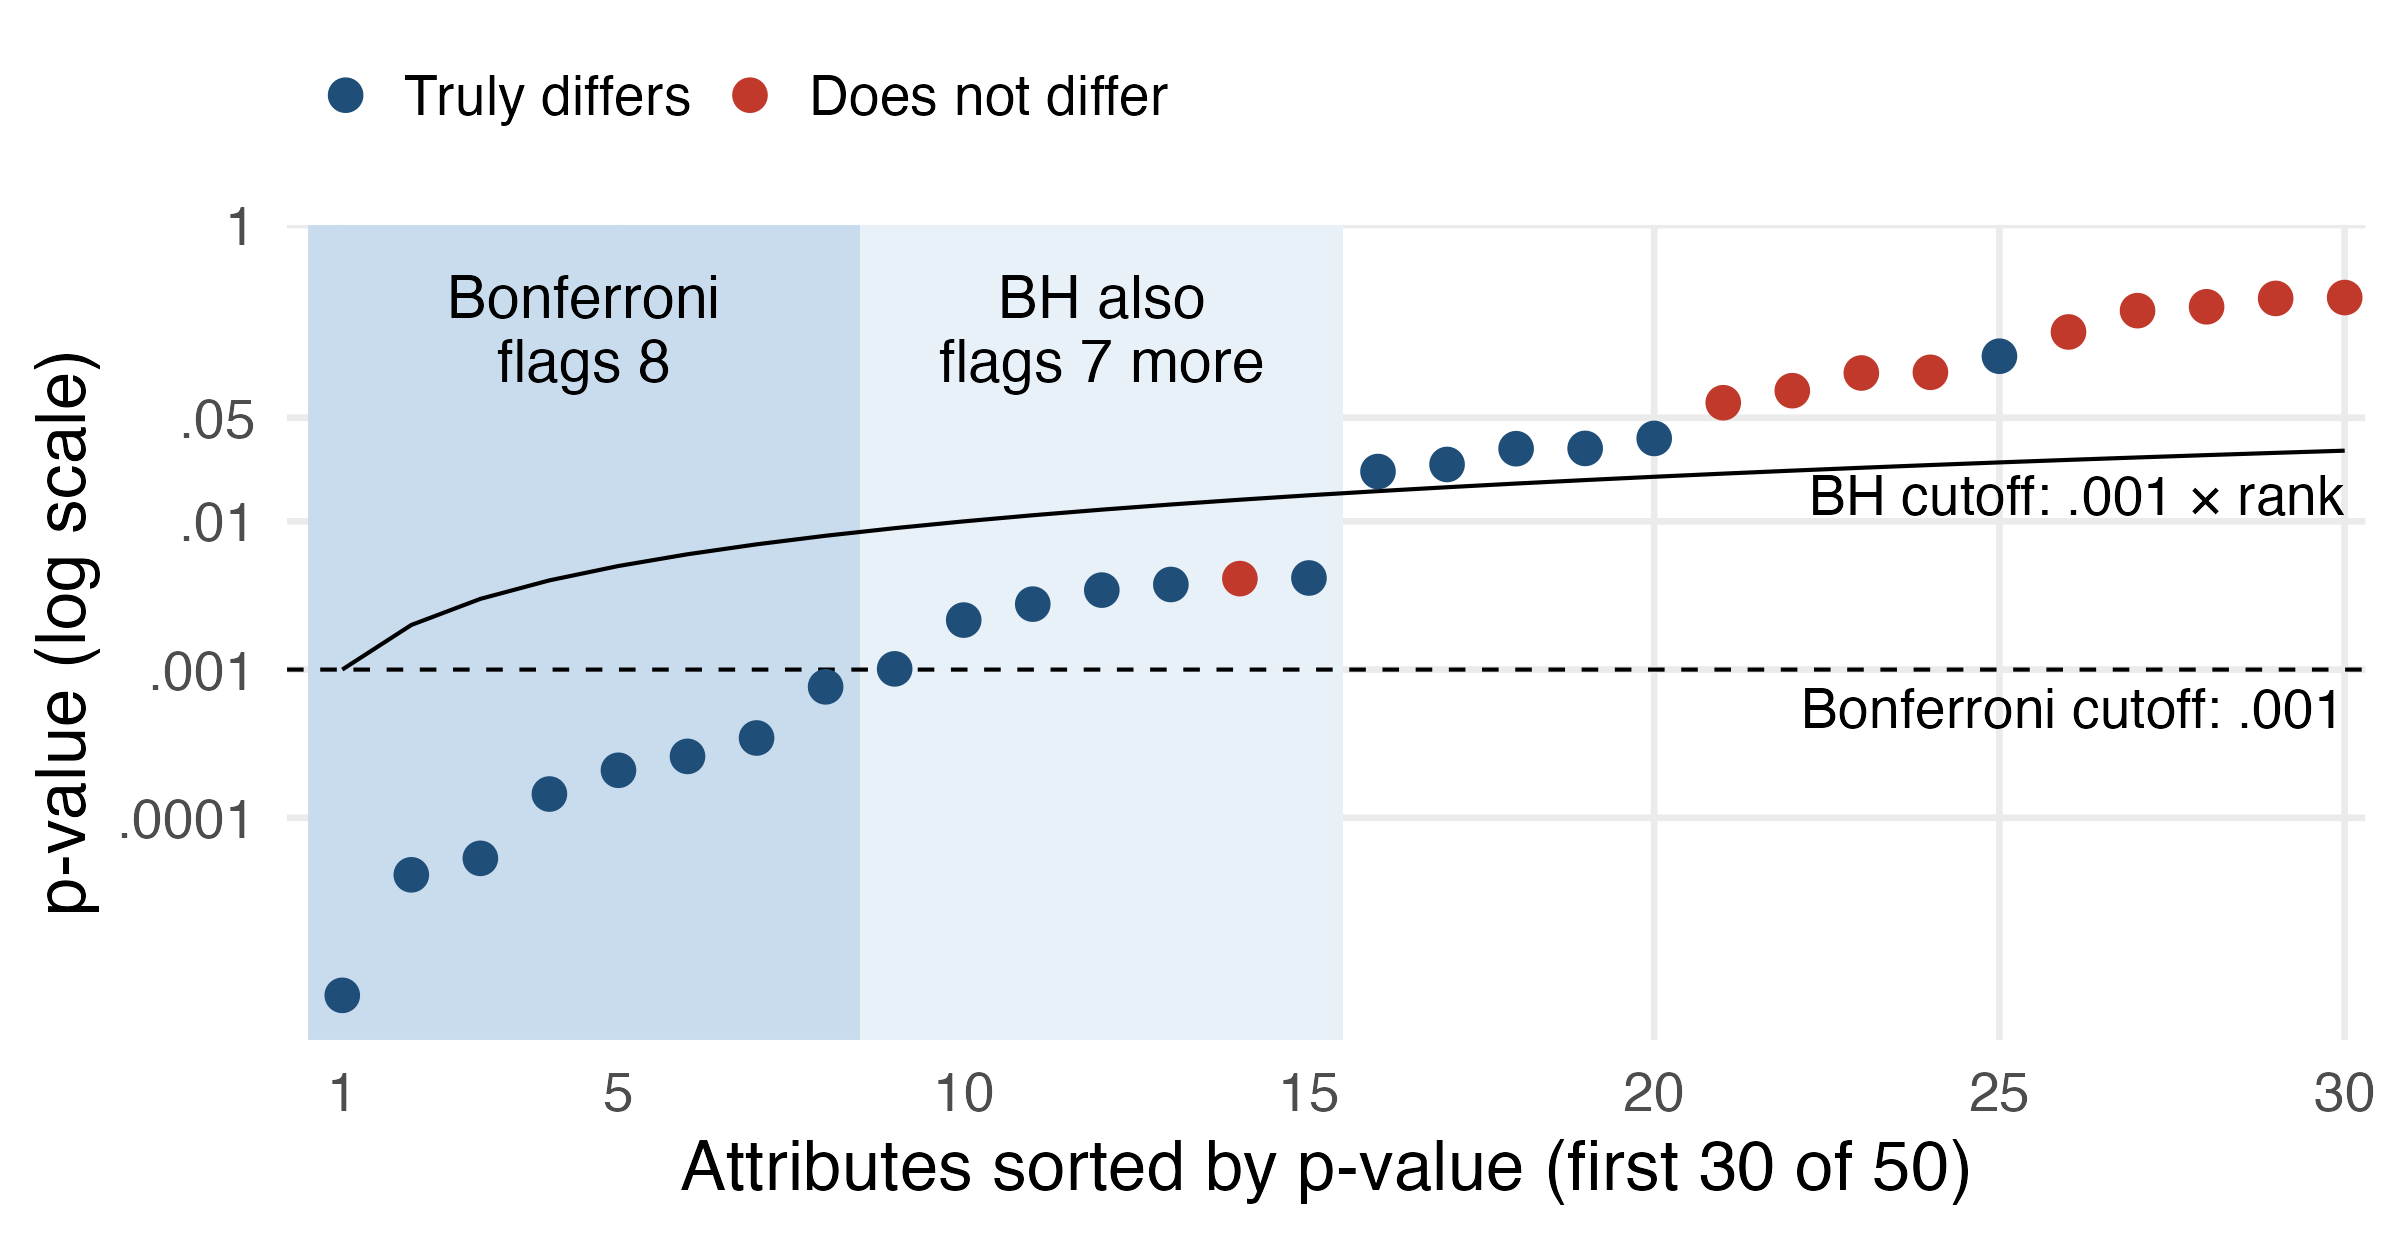
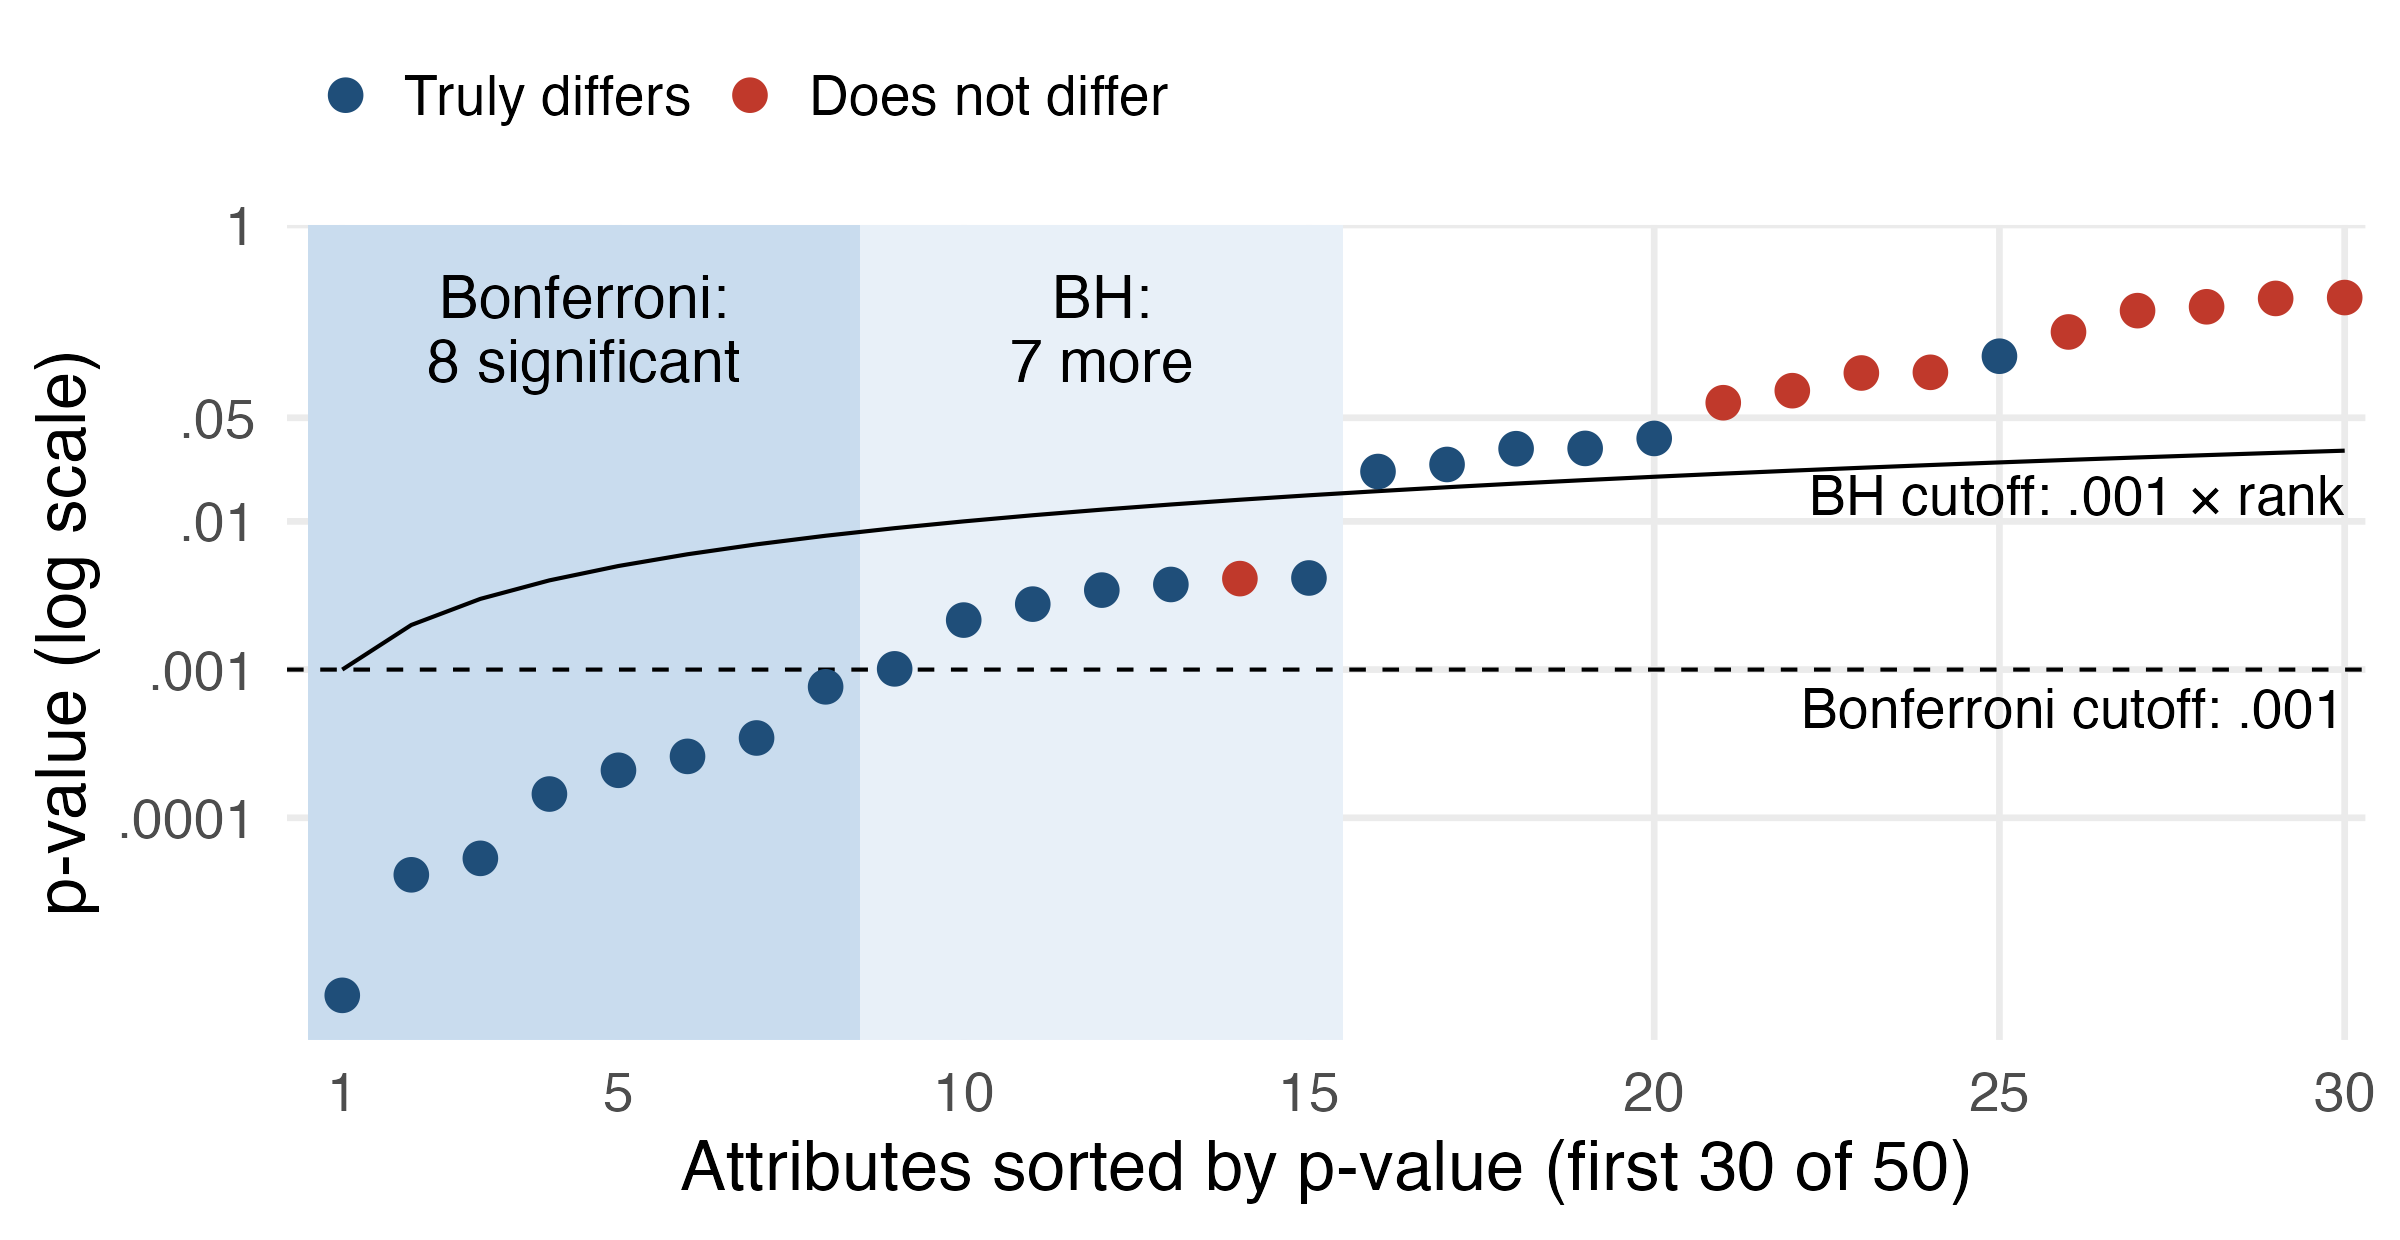
Lecture 6: 'declared significant' instead of 'flagged'; slide 27 table in plain rows with the FWER and FDR rows marked

Changed region(s): [[0.1562, 0.2145, 0.3125, 0.3371], [0.375, 0.2145, 0.5312, 0.3065]]

diff --git a/lectures/06-credibility/06-credibility.html b/lectures/06-credibility/06-credibility.html
@@ -492,7 +492,7 @@ You run `\(k\)` tests at level `\(\alpha = 5\%\)`.
 
 --
 
-**Bonferroni** (controls FWER). Flag a test if `\(p &lt; \alpha / k\)`. With 50 tests, the cutoff
+**Bonferroni** (controls FWER). Declare a test significant if `\(p &lt; \alpha / k\)`. With 50 tests, the cutoff
 is `\(.05/50 = .001\)`, the same for every test.
 
 --
@@ -502,14 +502,15 @@ is `\(.05/50 = .001\)`, the same for every test.
 **Benjamini–Hochberg, BH** (controls FDR). Sort the `\(p\)`-values from smallest to largest.
 The cutoff grows with the rank: `\(\alpha \times \text{rank} / k\)`. With 50 tests it is .001
 for the smallest, .002 for the second, .003 for the third, and so on. Find the last
-`\(p\)`-value below its cutoff, and flag it and every smaller one.
+`\(p\)`-value below its cutoff, and declare it and every smaller one significant.
 
 --
 
 &lt;br&gt;
 
 .small75[Also worth knowing: **Romano–Wolf**, which controls FWER but uses the correlation
-across outcomes, so it flags more than Bonferroni when outcomes are related. Implemented
+across outcomes, so it declares more tests significant than Bonferroni when outcomes are
+related. Implemented
 in Stata and R.]
 
 ---
@@ -526,9 +527,10 @@ so the errors can be counted: **20 truly differ, 30 do not.**
 
 --
 
-Each test can go wrong in two ways:
+Declaring an attribute significant is a claim that it differs. The claim is right if it
+truly differs, and a **false positive** if it does not. Each test can go wrong in two ways:
 
-| | Flagged as significant | Not flagged |
+| | Declared significant | Not declared significant |
 |:--|:--|:--|
 | One of the 20 that truly differ | correct | **missed effect** |
 | One of the 30 that do not | **false positive** | correct |
@@ -543,32 +545,34 @@ FWER and FDR limit false positives. The price is paid in missed effects.
 
 &lt;img src="figures/fwer-fdr.png" style="width:70%; display:block; margin:auto;"&gt;
 
-.small90[**Bonferroni** flags the 8 points below .001: all real, 12 real ones missed.
-**BH** flags everything up to the last point under its curve: 15 attributes, 14 real and
-1 false positive (rank 14), 6 real ones missed.]
+.small90[**Bonferroni** declares significant the 8 points below .001. All 8 truly differ; 12
+that truly differ are missed. **BH** declares significant everything up to the last point
+under its curve: 15 attributes, 14 that truly differ and 1 false positive (the red point
+at rank 14); 6 are missed.]
 
 ---
 
 # Over many simulated datasets
 
-Both rules at 5%, averaged over 20,000 datasets like the one on the previous slide:
+Repeat the simulation 20,000 times, with new data and the same truth. On average:
 
 .small90[
-| | Flagged | False positives | Missed effects (of 20) | Lists with any false positive |
-|:--|:--:|:--:|:--:|:--:|
-| FWER at 5% (Bonferroni) | 8 | 0.03 | 12 | 3% |
-| FDR at 5% (BH) | 15 | 0.5 | 6 | 37% |
+| | Bonferroni | BH |
+|:--|:--:|:--:|
+| Attributes declared significant | 8 | 15 |
+| ... of which truly differ | 8 | 14 |
+| ... of which are false positives | 0.03 | 0.5 |
+| Attributes that truly differ but are missed (of 20) | 12 | 6 |
+| **Repetitions with at least one false positive** | **3%** | 37% |
+| **False positives as a share of those declared significant** | 0.3% | **3%** |
 ]
 
 --
 
-**Bonferroni** almost never flags a false positive: 3% of its lists contain one. It misses
-12 of the 20 real effects.
-
---
-
-**BH** misses only 6. More than a third of its lists contain a false positive, but on
-average false positives are about 3% of what it flags.
+The two bold rows are what the rules control, each at 5%. **FWER** is the share of
+repetitions with at least one false positive: Bonferroni keeps it at 3%. **FDR** is the
+share of false positives among those declared significant: BH keeps it at 3%, and misses
+6 real effects instead of 12.
 
 .small75[Each real attribute has an expected `\(z\)` of 3. Code: `figures/fwer-fdr.R`.]
 
